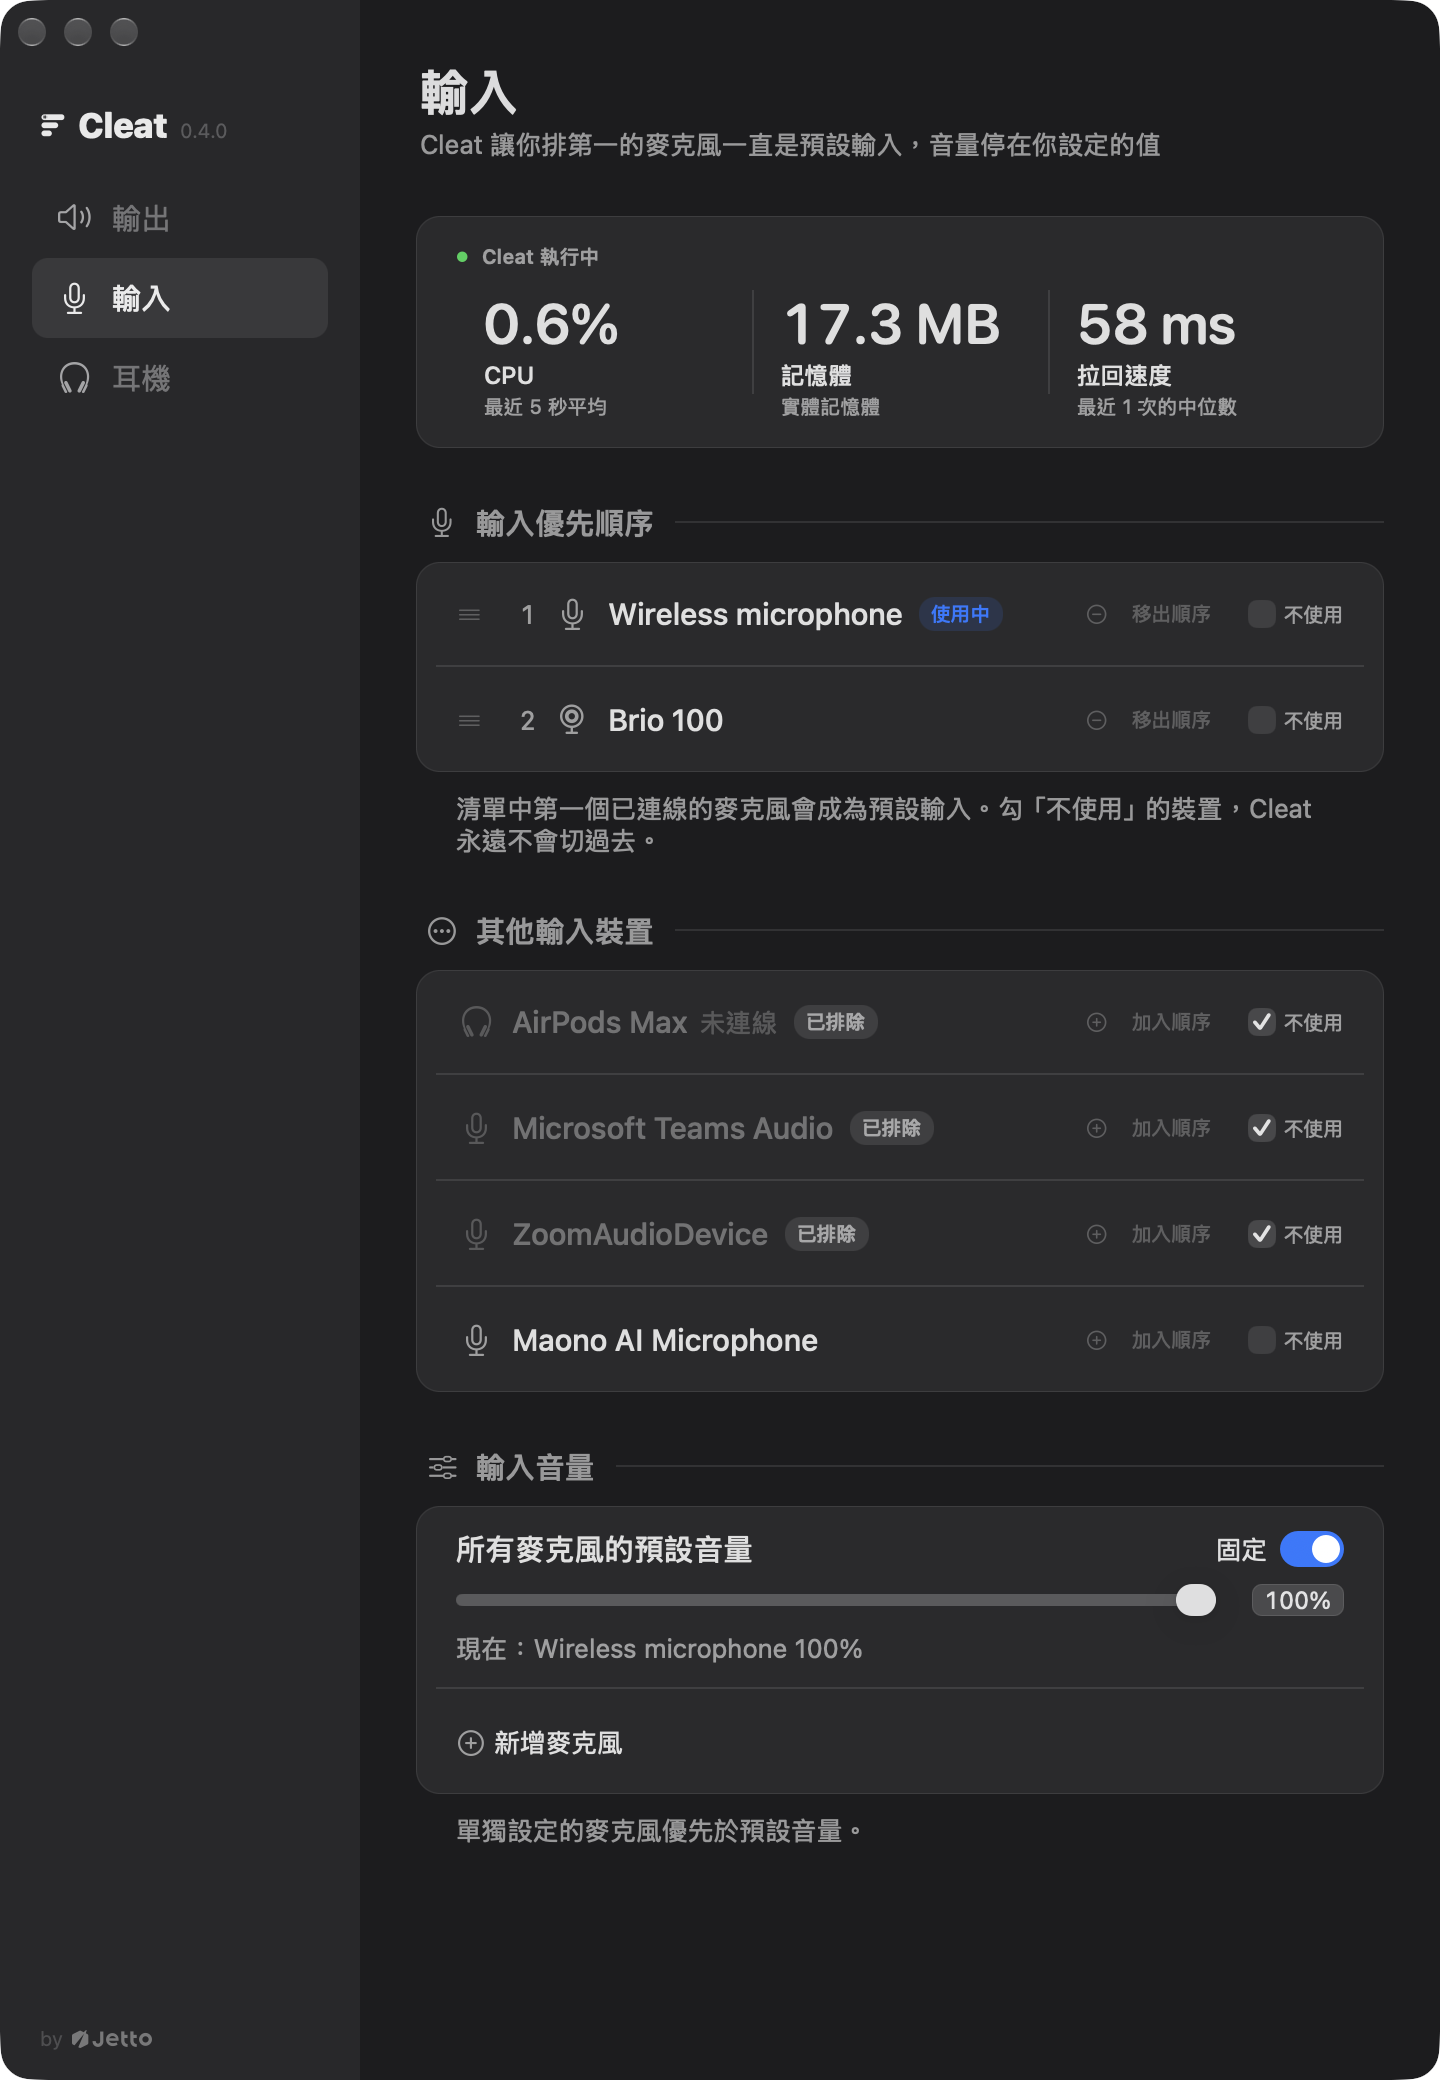
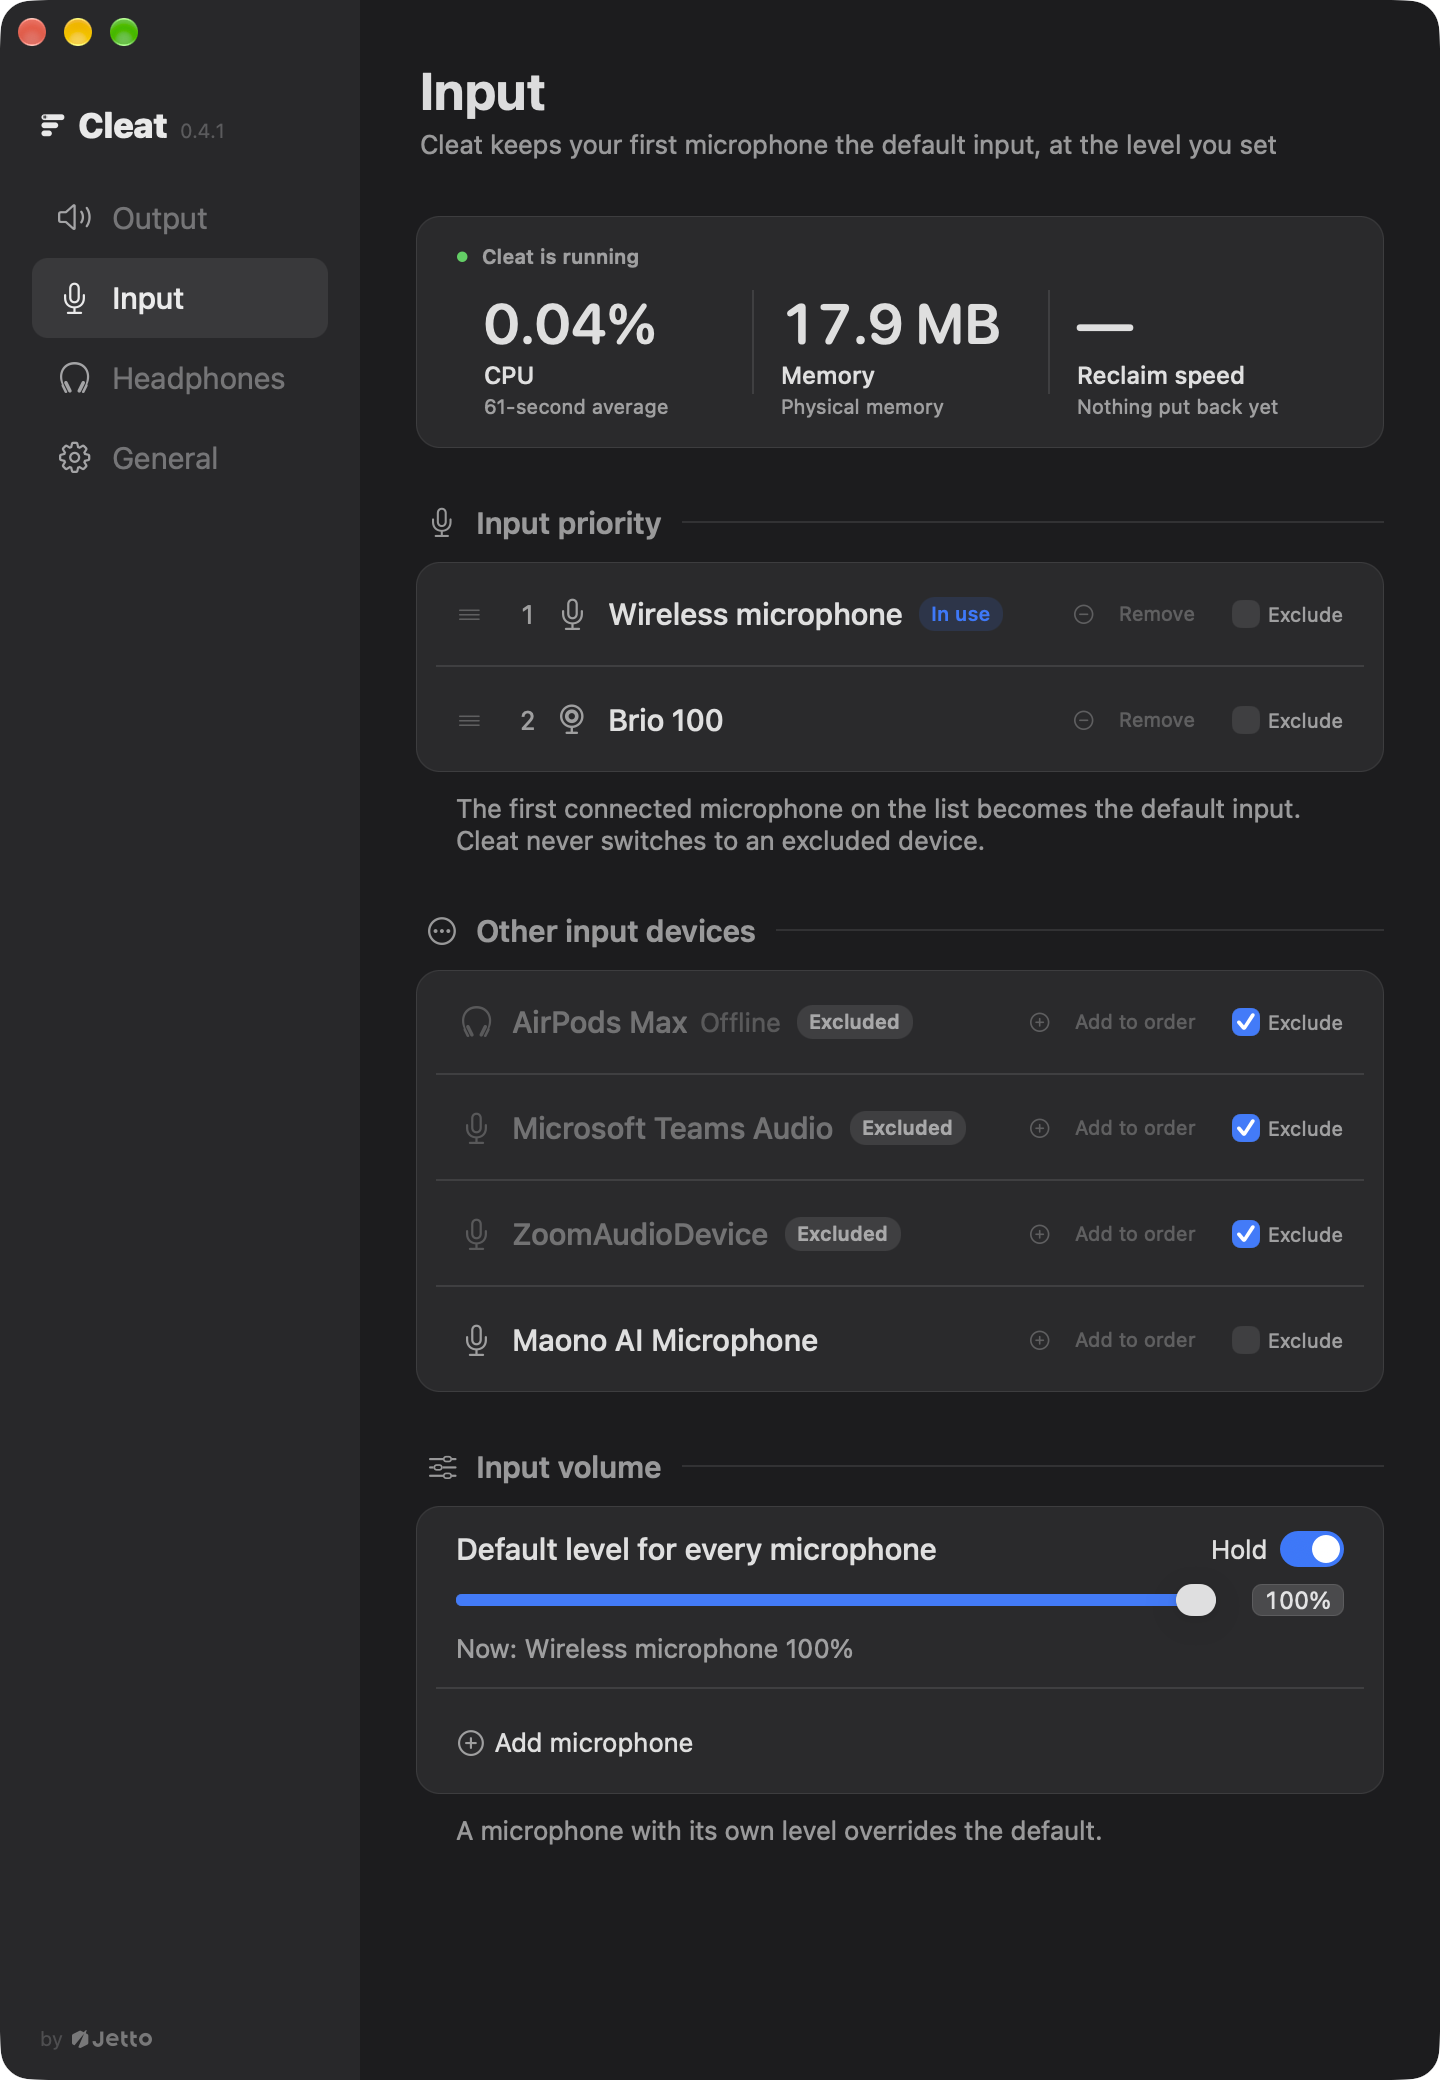
docs(readme): English-interface screenshots and the system-language note (B-1283)
The four settings screenshots are retaken on 0.4.1 with the window forced to
English (dark output 2190 / input 2080 / headphones 1280 px, light output via
the app's own appearance flag, system appearance untouched). Device names stay
as macOS reports them on this Mac, so the alt text says so. The interface-
language line in all five READMEs now says the window and menu follow the
system language, and "never use" becomes the app's own word, Exclude.

UI-Evidence: local

diff --git a/README.md b/README.md
@@ -21,7 +21,7 @@ nothing at all.
 **What Cleat does**
 
 - **Output priority list.** Sound plays from the first connected device on your list. While a device
-  on your list is connected, devices marked "never use" are moved off, even when macOS lands on
+  on your list is connected, devices ticked "Exclude" are moved off, even when macOS lands on
   them by itself.
 - **Microphone priority list.** The first connected microphone on your list is the default input;
   while one of them is connected, a blocklist keeps AirPods Max (or Zoom's and Teams' virtual
@@ -46,22 +46,22 @@ nothing at all.
   waiting to go and cuts off one already on its way.
 
 <p align="center">
-  <img src="assets/screenshot-output.png" alt="Cleat's settings window, Output page, in dark mode with a Traditional Chinese interface: a sidebar with Output, Input and Headphones; a status card with CPU, memory and reclaim speed; an output priority list with 外接耳機 (external headphones) first and marked in use; other output devices below it, with Mac Studio's speakers and the Maono AI Microphone ticked never use; and an output volume and balance card holding the volume against Parallels Desktop and the balance pinned, with a note that the current output, 外接耳機, has no balance control, so Cleat leaves it alone" width="720">
+  <img src="assets/screenshot-output.png" alt="Cleat's settings window, Output page, in dark mode with the English interface: a sidebar with Output, Input, Headphones and General; a status card reading Cleat is running, with CPU, memory and reclaim speed (nothing put back yet); an output priority list with 外接耳機 (the name macOS gives the external headphones on this Mac) first and marked In use; other output devices below it, with Mac Studio的揚聲器 (Mac Studio's speakers) and the Maono AI Microphone marked Excluded; and an output volume and balance card undoing volume changes made by Parallels Desktop and holding the balance, with the note that the current output, 外接耳機, has no balance control, left alone" width="720">
 </p>
 
 <p align="center">
-  <img src="assets/screenshot-input.png" alt="Cleat's settings window, Input page, in dark mode with a Traditional Chinese interface: an input priority list of Wireless microphone (in use), Brio 100 and AirPods Max (not connected, excluded); other input devices with Microsoft Teams Audio and ZoomAudioDevice excluded; and an input volume card holding every microphone at 100 percent, with the current reading Wireless microphone 100%" width="720">
+  <img src="assets/screenshot-input.png" alt="Cleat's settings window, Input page, in dark mode with the English interface: an input priority list of Wireless microphone (In use) and Brio 100; other input devices with AirPods Max (Offline), Microsoft Teams Audio and ZoomAudioDevice marked Excluded, and the Maono AI Microphone; and an input volume card holding the default level for every microphone at 100 percent, with the reading Now: Wireless microphone 100%" width="720">
 </p>
 
 <p align="center">
-  <img src="assets/screenshot-headphones.png" alt="Cleat's settings window, Headphones page, in dark mode with a Traditional Chinese interface: switches for taking over the output when Bluetooth headphones connect and for asking a headset back when another device has taken it, both on; AirPods Max and AirPods Pro (not connected) ticked; and a collapsed row of three other Bluetooth devices" width="720">
+  <img src="assets/screenshot-headphones.png" alt="Cleat's settings window, Headphones page, in dark mode with the English interface: the switches Switch to Bluetooth headphones when they connect and Ask for headphones back from other devices, both on; AirPods Max and AirPods Pro (Offline) ticked; and a collapsed row, Other Bluetooth devices (3), with a note on when to tick one" width="720">
 </p>
 
 <p align="center">
-  <img src="assets/screenshot-output-light.png" alt="The same Output page of Cleat's settings window in light mode, Traditional Chinese interface" width="720">
+  <img src="assets/screenshot-output-light.png" alt="The same Output page of Cleat's settings window in light mode, English interface" width="720">
 </p>
 
-<p align="center"><sub>The settings window is in Traditional Chinese for now. The config file and the <code>cleat</code> commands are in English.</sub></p>
+<p align="center"><sub>The settings window and the menu follow the system language: Traditional Chinese on a Traditional Chinese system, English otherwise. The config file and the <code>cleat</code> commands are in English.</sub></p>
 
 ## What it holds
 
@@ -96,8 +96,8 @@ minute, the same figure Activity Monitor shows), its memory (the same as Activit
 column), and its reclaim speed (how long Cleat takes to put a setting back after something changed
 it, the median of the recent ones).
 
-- **Output**: the priority list, every other output device with an "add to order" button and a
-  "never use" box, the programs whose volume changes are undone (with the time of the last undo),
+- **Output**: the priority list, every other output device with an "Add to order" button and an
+  "Exclude" box, the programs whose volume changes are undone (with the time of the last undo),
   and the balance with a live reading.
 - **Input**: the microphone priority list, every other input device, and the gain: one slider for
   every microphone plus a slider for each device you add.
